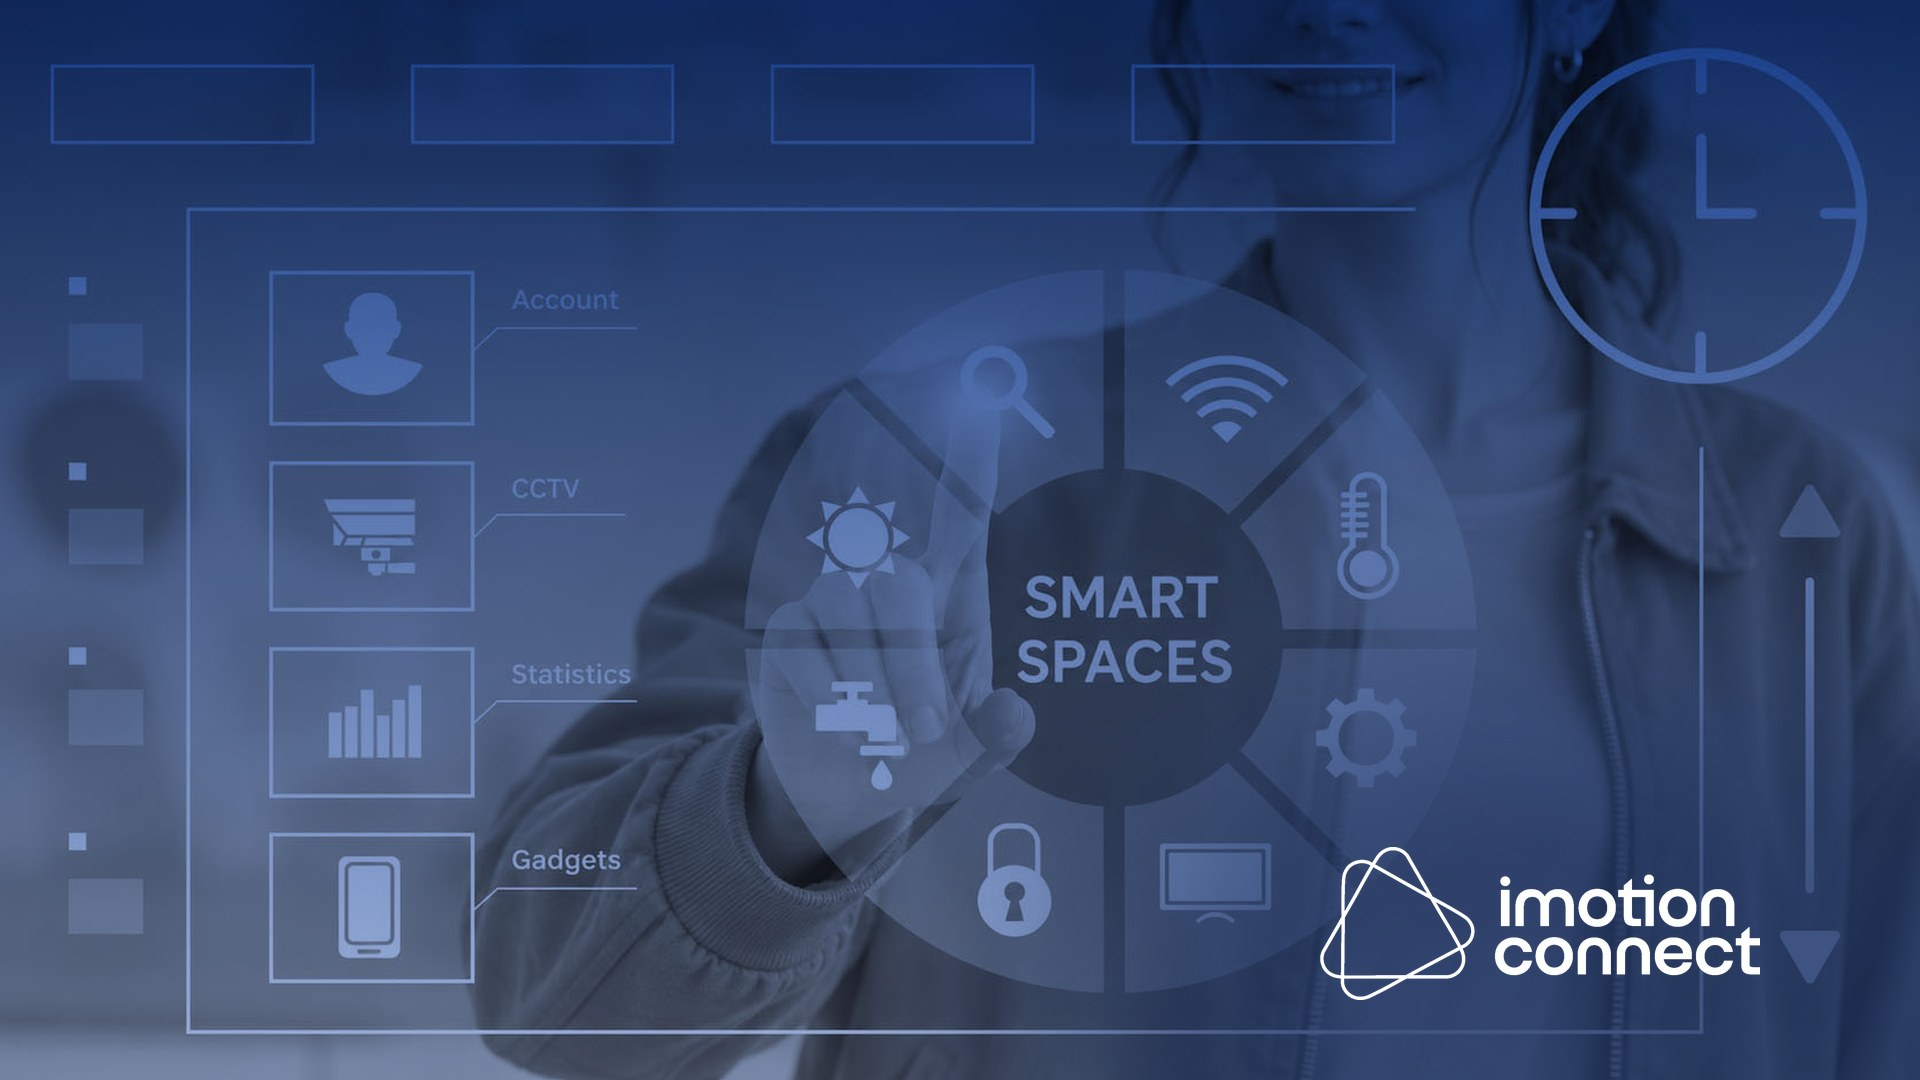
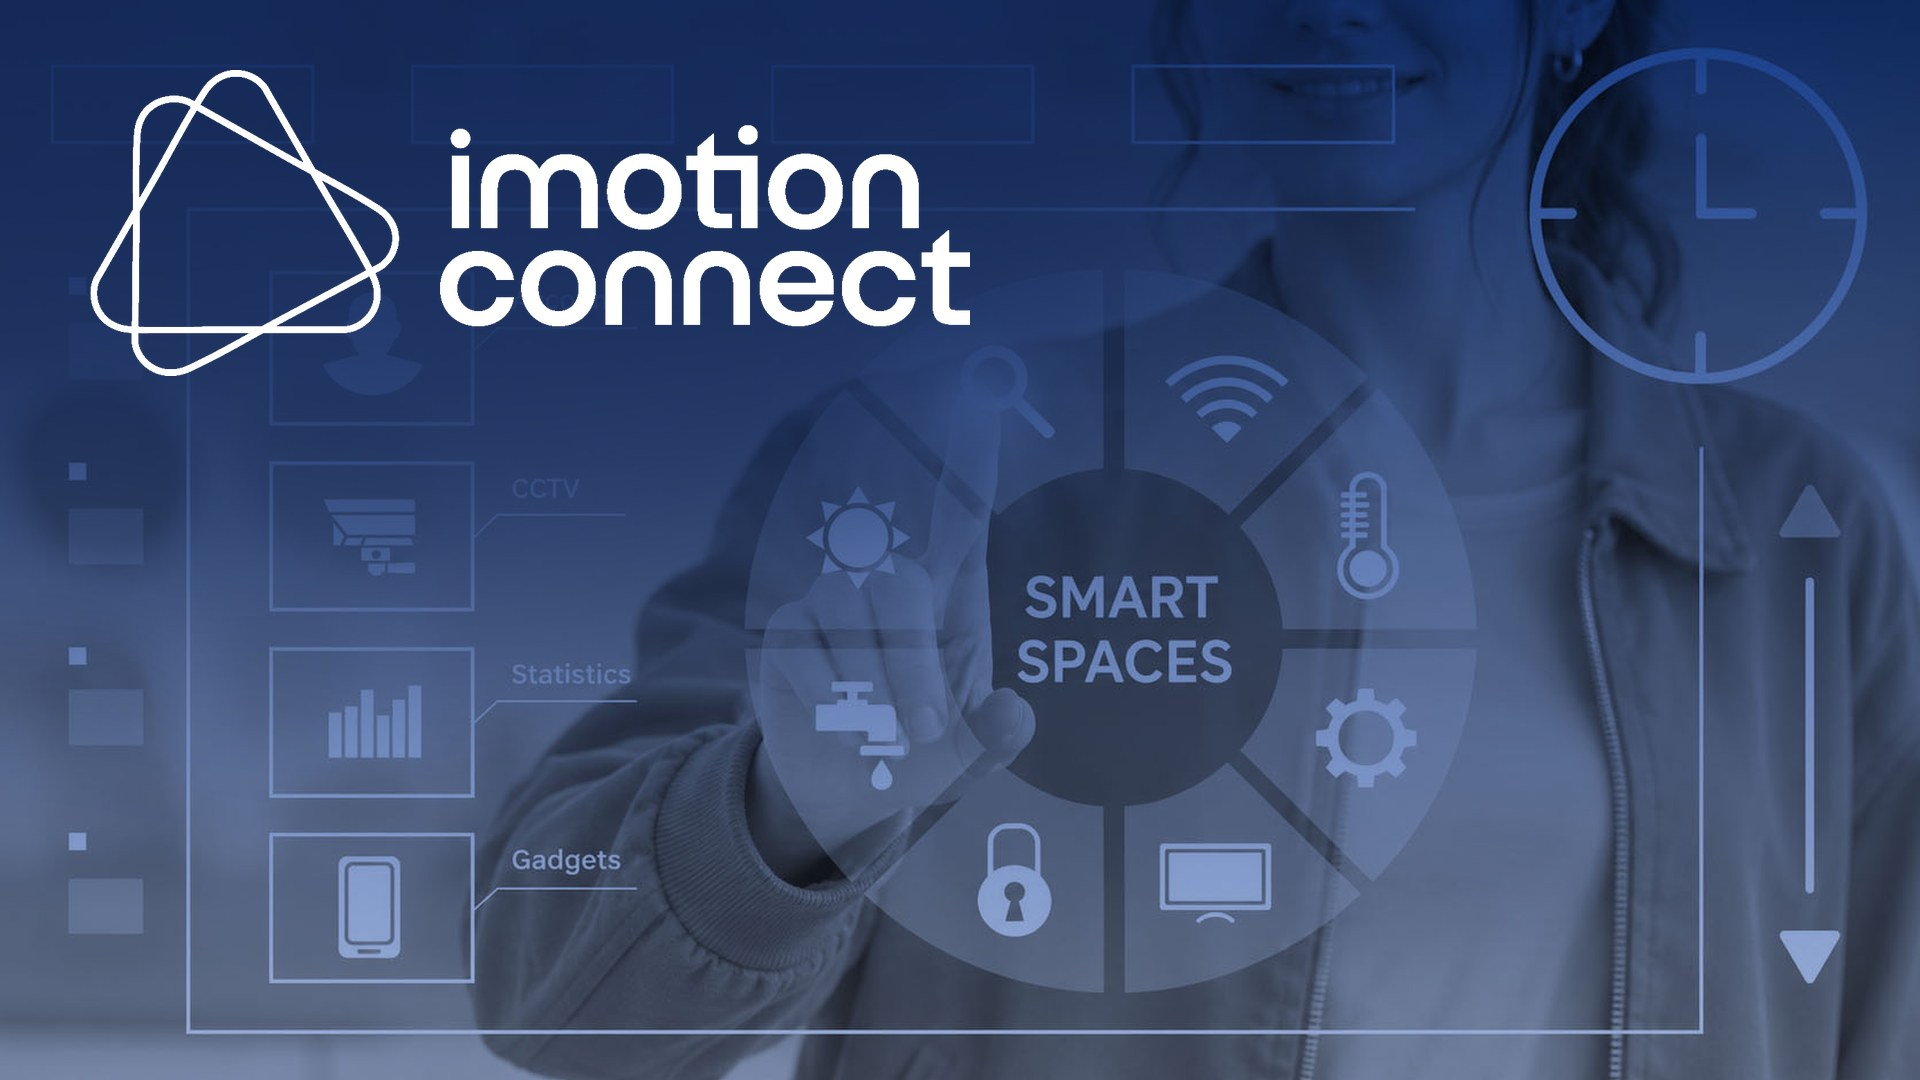
Backgrounds: isologotipo arriba a la izquierda, al doble
Claude-Session: https://claude.ai/code/session_01H5fySRfK5n196uUSjTSokz

diff --git a/imotion-connect/index.html b/imotion-connect/index.html
@@ -706,7 +706,7 @@ footer .wrap{display:grid;grid-template-columns:minmax(0,1fr) minmax(0,1fr);gap:
    <figure class="bgw"><img src="assets/bg-lineas-blanco.jpg?v=2" alt="Fondo blanco con triángulos en línea y la masterbrand" loading="lazy"><figcaption><b>Triángulos en línea, sobre blanco</b> · Los triángulos del símbolo en azul muy suave, apenas visibles, con la masterbrand.</figcaption></figure>
    <figure><img src="assets/bg-lineas-negro.jpg?v=3" alt="Fondo negro con triángulos en línea gris oscuro y la sigla imc" loading="lazy"><figcaption><b>Triángulos en línea, sobre negro</b> · Las líneas en gris oscuro, con la sigla <b>imc</b>.</figcaption></figure>
    <figure><img src="assets/bg-red.jpg" alt="Fondo claro con red de nodos conectados y la masterbrand" loading="lazy"><figcaption><b>Red de conexiones</b> · Nodos y líneas en gris celeste, con la masterbrand.</figcaption></figure>
-   <figure class="bgw"><img src="assets/bg-smart-spaces.jpg" alt="Fotografía de interfaz de hogar inteligente con el isologotipo de imotion connect calado en blanco abajo a la derecha" loading="lazy"><figcaption><b>Fotografía con isologotipo calado</b> · El isologotipo completo en blanco, en el margen inferior derecho, sobre imagen virada al azul de marca.</figcaption></figure>
+   <figure class="bgw"><img src="assets/bg-smart-spaces.jpg?v=2" alt="Fotografía de interfaz de hogar inteligente con el isologotipo de imotion connect calado en blanco arriba a la izquierda" loading="lazy"><figcaption><b>Fotografía con isologotipo calado</b> · El isologotipo completo en blanco, arriba a la izquierda, sobre imagen virada al azul de marca.</figcaption></figure>
   </div>
  </div>
 </section>
